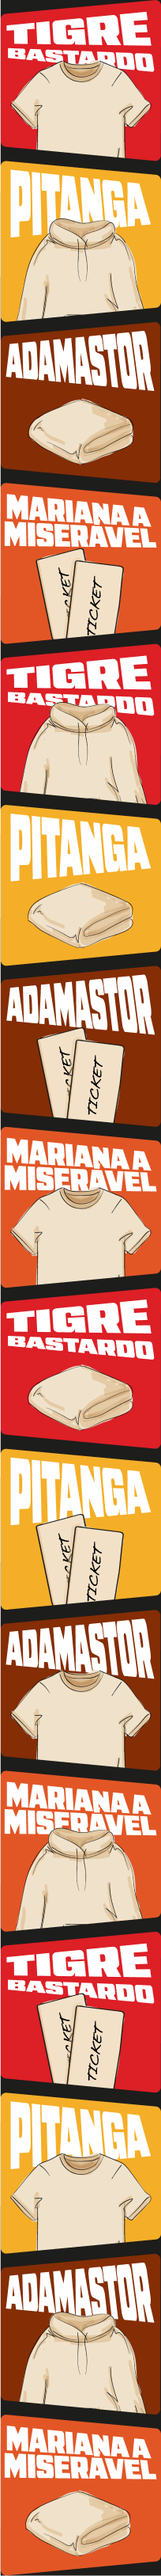
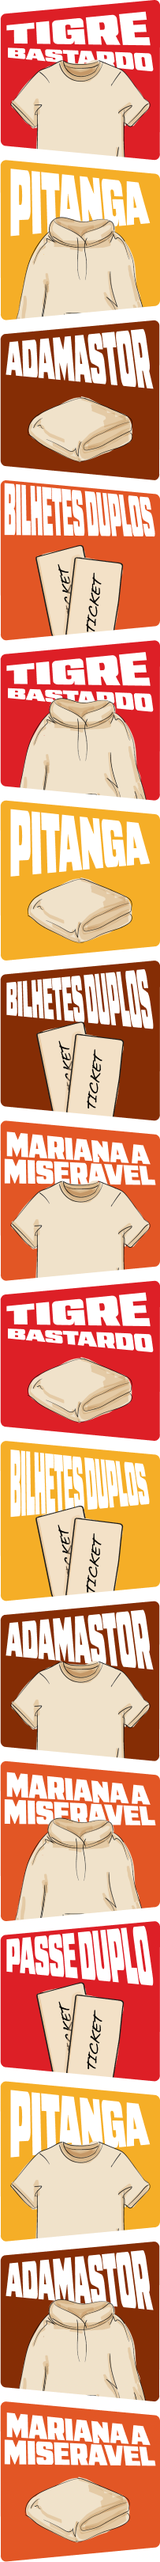
added new reel and some adjustments

Changed region(s): [[0.0, 0.0, 1.0, 1.0], [0.8276, 0.0, 0.9163, 0.0312]]

diff --git a/src/app.tsx b/src/app.tsx
@@ -40,7 +40,7 @@ export type SlotReward = {
 export function App() {
     const awardsRef = useRef();
     const { config, dispatch } = useConfigContext();
-    const [slotConfig] = useState<SlotConfigType>({
+    const [slotConfig, setSlotConfig] = useState<SlotConfigType>({
         icon_width: 203 /** 5*/,
         icon_height: 203 /** 5*/,
         icon_num: 16,
@@ -52,8 +52,33 @@ export function App() {
         number_of_reels: 4,
     });
 
-        const queryParameters = new URLSearchParams(window.location.search)
+    const queryParameters = new URLSearchParams(window.location.search);
 
+    const changeWindowSize = useCallback(() => {
+        if (window.innerWidth < 900) {
+            setSlotConfig((prevValue) => ({
+                ...prevValue,
+                icon_width: (window.innerWidth * 203) / 900,
+                icon_height: (window.innerWidth * 203) / 900,
+            }));
+        } else {
+            setSlotConfig((prevValue) => ({
+                ...prevValue,
+                icon_width: 203,
+                icon_height: 203,
+            }));
+        }
+    }, []);
+
+    useEffect(() => {
+        changeWindowSize();
+        window.addEventListener('resize', changeWindowSize);
+
+        // Cleanup function to remove the event listener on unmount
+        return () => {
+            window.removeEventListener('resize', changeWindowSize);
+        };
+    }, [changeWindowSize]);
 
     const fetchData = useCallback(async () => {
         const response = await axios.get(
@@ -149,7 +174,7 @@ export function App() {
                             is_bacana: isBacana,
                             prize_id: element.id,
                             config_id: internalConfig.id,
-                            player: queryParameters.get("email"),
+                            player: queryParameters.get('email'),
                         },
                     });
                 }
@@ -158,7 +183,7 @@ export function App() {
                 console.log(err);
             }
         },
-        [fetchData]
+        [fetchData, queryParameters]
     );
 
     const handleOnLose = useCallback(
@@ -172,16 +197,15 @@ export function App() {
                         won_premium: false,
                         is_bacana: isBacana,
                         config_id: internalConfig.id,
-                        player: queryParameters.get("email"),
+                        player: queryParameters.get('email'),
                     },
                 });
                 await fetchData();
-
             } catch (err) {
                 console.log(err);
             }
         },
-        [fetchData]
+        [fetchData, queryParameters]
     );
 
     useEffect(() => {

diff --git a/src/shared/slot/slot.tsx b/src/shared/slot/slot.tsx
@@ -134,10 +134,8 @@ export const Slot = ({
     );
 
     const handleRoll = useCallback(async () => {
-        const canPlay = await checkIfUserCanPlay(1);
-
         disabled.current = true;
-        const probability = 100 || probArr.current[myArr.current.length];
+        const probability = 15 || probArr.current[myArr.current.length];
 
         rollSoundRef.current.playSound();
 
@@ -367,7 +365,7 @@ const SlotMachine = styled.section<{ _variables: SlotConfigType }>`
     justify-content: space-between;
     width: ${({ _variables }) =>
         `${_variables.icon_width * (_variables.number_of_reels * 1.04)}px`};
-    height: 606px;
+    height: ${({ _variables }) => `${_variables.icon_height * 3}px`};
     overflow: hidden;
     border-radius: 12px;
 

diff --git a/src/index.css b/src/index.css
@@ -26,6 +26,16 @@
     font-family: 'Futura';
 }
 
+html,
+body {
+    width: 100%;
+    max-width: 845px;
+}
+
+*:hover {
+    cursor: url(/play.svg) 15 25, auto;
+}
+
 a {
     font-weight: 500;
     color: #646cff;
